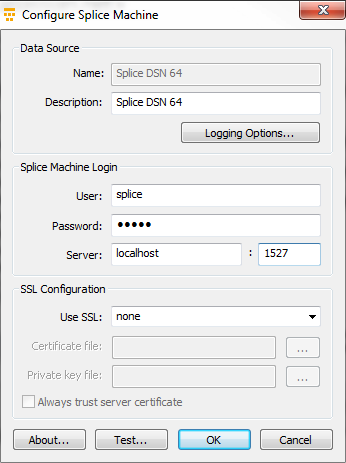
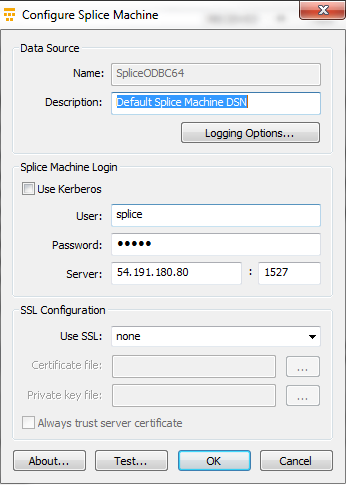
Adding new 'configuring kerberos for windows' topic and reference to it, along with new config screenshot, in the odbc install topic.

diff --git a/pages/Tutorials/Connect/ODBCWindowsKerberos.md b/pages/Tutorials/Connect/ODBCWindowsKerberos.md
@@ -1,0 +1,148 @@
+---
+title: Configuring Kerberos for Windows ODBC
+summary: How to configure Kerberos on Windows to use with the Splice Machine ODBC driver.
+keywords: ODBC driver, install driver, odbc logging, odbc windows, odbc mac, odbc linux, odbc unix
+toc: false
+product: all
+sidebar: tutorials_sidebar
+permalink: tutorials_connect_odbcwin.html
+folder: Tutorials/Connect
+---
+{% include splicevars.html %} <section>
+<div class="TopicContent" data-swiftype-index="true" markdown="1">
+
+# Configurating Kerberos for Windows and the Splice Machine ODBC Driver
+
+To use Kerberos with the Splice Machine ODBC driver on Windows, you must download and install MIT Kerberos for Windows 4.0.1. Follow these steps:
+
+1. Download and Run the MIT Kerberos Installer
+2. Set up the Kerberos Configuration File
+3. Set up the Kerberos Credential Cache File
+4. Obtain a ticket for a Kerberos Principal
+
+## Download and Run the MIT Kerberos Installer for Windows
+
+You can find the installer here:
+<div class="preWrapperWide" markdown="1">
+    http://web.mit.edu/kerberos/dist/kfw/4.0/kfw-4.0.1-amd64.msi
+{: .Plain}
+</div>
+
+## Set up the Kerberos Configuration file
+
+There are two ways to do this, both of which are described in this section.
+* Set up in the default windows directory.
+* Set up in a custom location.
+
+### Set Up the Configuration in the Default Windows Directory
+
+Follow these steps:
+1. Obtain the `krb5.conf` configuration file from your Kerberos administrator.
+2. Rename that file to `krb5.ini`.
+3. Copy the `krb5.ini` file to the `C:\ProgramData\MIT\Kerberos5` directory.
+
+### Set Up the Configuration in a Custom Location
+
+To set up the configuration in a custom location, first obtain the `/etc/krb5.conf` configuration file on the machine that is hosting the Impala server and then complete the following steps:
+
+1. Place the `krb5.conf` file in an accessible directory and make note of the full path name.
+2. Click `Start`, then right-click `Computer`, and then click `Properties`.
+3. Click `Advanced system settings`.
+4. In the System Properties dialog, click the `Advanced` tab, and then click `Environment Variables`.
+5. In the Environment Variables dialog, under the `System variables` list, click `New`.
+6. In the New System Variable dialog, in the `Variable Name` field, type `KRB5_CONFIG`.
+7. In the `Variable Value` field, type the absolute path to the `krb5.conf` file from step 1.
+8. Click `OK` to save the new variable.
+9. Ensure the variable is listed in the System variables list.
+10. Click `OK` to close the Environment Variables dialog, and then click `OK` to close the System Properties dialog.
+
+## Set Up the Kerberos Credential Cache File
+
+Kerberos uses a credential cache to store and manage credentials. Follow these steps to set up the credentials cache file:
+
+1. Create the directory where you want to save the Kerberos credential cache file; for example, you can use <span class="Example">C:\temp</span>.
+2. Click `Start`, then right-click `Computer`, and then click `Properties`
+3. Click `Advanced system settings`.
+4. In the System Properties dialog, click the `Advanced` tab, and then click `Environment Variables`
+5. In the Environment Variables dialog, under the System variables list, click `New`
+6. In the New System Variable dialog, in the `Variable Name` field, type `KRB5CCNAME`
+7. In the `Variable Value` field, type the path to the folder you created in step 1, and then append the file name `krb5cache`. For example, <span class="Example">C:\temp\krb5cache</span>.
+
+    `krb5cache` is a file (not a directory) that is managed by the Kerberos software which __should not be created by users__; if you receive a permission error when you first use Kerberos, ensure that `krb5cache` does not already exist as a file or a directory.
+    {: .noteNote}
+8. Click `OK` to save the new variable.
+9. Ensure the variable appears in the System variables list.
+10. Click `OK` to close the Environment Variables dialog, and then click `OK` to close the System Properties dialog.
+11. To ensure that Kerberos uses the new settings, __restart your computer__.
+
+## Obtain a Ticket for a Kerberos Principal
+
+A principal is a user or service that can authenticate to Kerberos. To authenticate to Kerberos, a principal must obtain a ticket in one of these ways:
+
+* Obtain a ticket using a password.
+* Specify a keytab file to use.
+* Use the default keytab file of your Kerberos configuration.
+
+Each of these options is described in this section.
+
+### Obtain a Ticket Using a Password
+
+1. Click the `Start` button, then click `All Programs`, and then click the `Kerberos for Windows (64-bit)` or the `Kerberos for Windows (32-bit)` program group.
+2. Click `MIT Kerberos Ticket Manager`.
+3. In the MIT Kerberos Ticket Manager, click `Get Ticket`.
+4. In the Get Ticket dialog, type your principal name and password, and then click `OK`.
+
+If the authentication succeeds, then your ticket information appears in the MIT Kerberos Ticket Manager.
+
+### Obtain a Ticket Using a keytab File
+
+1. Click the `Start button > All Programs > Accessories > Command Prompt`.
+2. In the Command Prompt, type a command using the following syntax:
+
+    <div class="PreWrapper" markdown="1">
+        kinit -k -t *keytab_file* principal
+    </div>
+
+    * `keytab_file` is the full path to the keytab file. For example:
+
+        <div class="PreWrapper" markdown="1">
+          C:\mykeytabs\impalaserver.keytab
+        {: .Example}
+        </div>
+
+    * `principal` is the Kerberos principal to use for authentication. For example:
+        <div class="PreWrapper" markdown="1">
+          impala/impalaserver.example.com@EXAMPLE.COM
+        {: .Example}
+        </div>
+
+    * If the cache location `KRB5CCNAME` is not set or not used, then use the `-c` option of the `kinit` command to specify the credential cache. The `-c` argment must appear last on the command line. For example:
+
+        <div class="PreWrapperWide" markdown="1">
+          kinit -k -t C:\mykeytabs\impalaserver.keytab impala/fully.qualified.domain.name@your-realm.com -c C:\ProgramData\MIT\krbcache
+        {: .Example}
+        </div>
+
+### Obtain a Ticket Using the Default keytab File
+
+1. Click the Start button > All Programs > Accessories > Command Prompt
+2. In the Command Prompt, type a command using the following syntax:
+
+    <div class="PreWrapper" markdown="1">
+        kinit -k principal
+    </div>
+
+    * `principal` is the Kerberos principal to use for authentication. For example:
+        <div class="PreWrapper" markdown="1">
+          impala/impalaserver.example.com@EXAMPLE.COM
+        {: .Example}
+        </div>
+
+    * If the cache location `KRB5CCNAME` is not set or not used, then use the `-c` option of the `kinit` command to specify the credential cache. The `-c` argment must appear last on the command line. For example:
+        <div class="PreWrapperWide" markdown="1">
+          kinit -k impala/fully.qualified.domain.name@your-realm.com -c C:\ProgramData\MIT\krbcache
+        {: .Example}
+        </div>
+
+For more information about configuring Kerberos, including a default keytab file, consult the MIT Kerberos documentation
+{: .noteNote}

diff --git a/pages/Tutorials/Connect/ODBCInstall.md b/pages/Tutorials/Connect/ODBCInstall.md
@@ -178,6 +178,9 @@ the driver:
     standalone version of Splice Machine, specify `localhost`.
     {: .noteNote}
 
+    #### Configuring Kerberos
+    To configure Kerberos for your ODBC connections, you must install MIT Kerberos for Windows; see our [Configuring Kerberos for Windows ODBC](tutorials_connect_odbcwin.html) topic for instructions.
+
     #### Configuring SSL
     To configure SSL for your ODBC connections, click the drop-down arrow in the *Use SSL:* setting and change the setting from `none` to one of the following settings:
     {: .indentLevel1}
